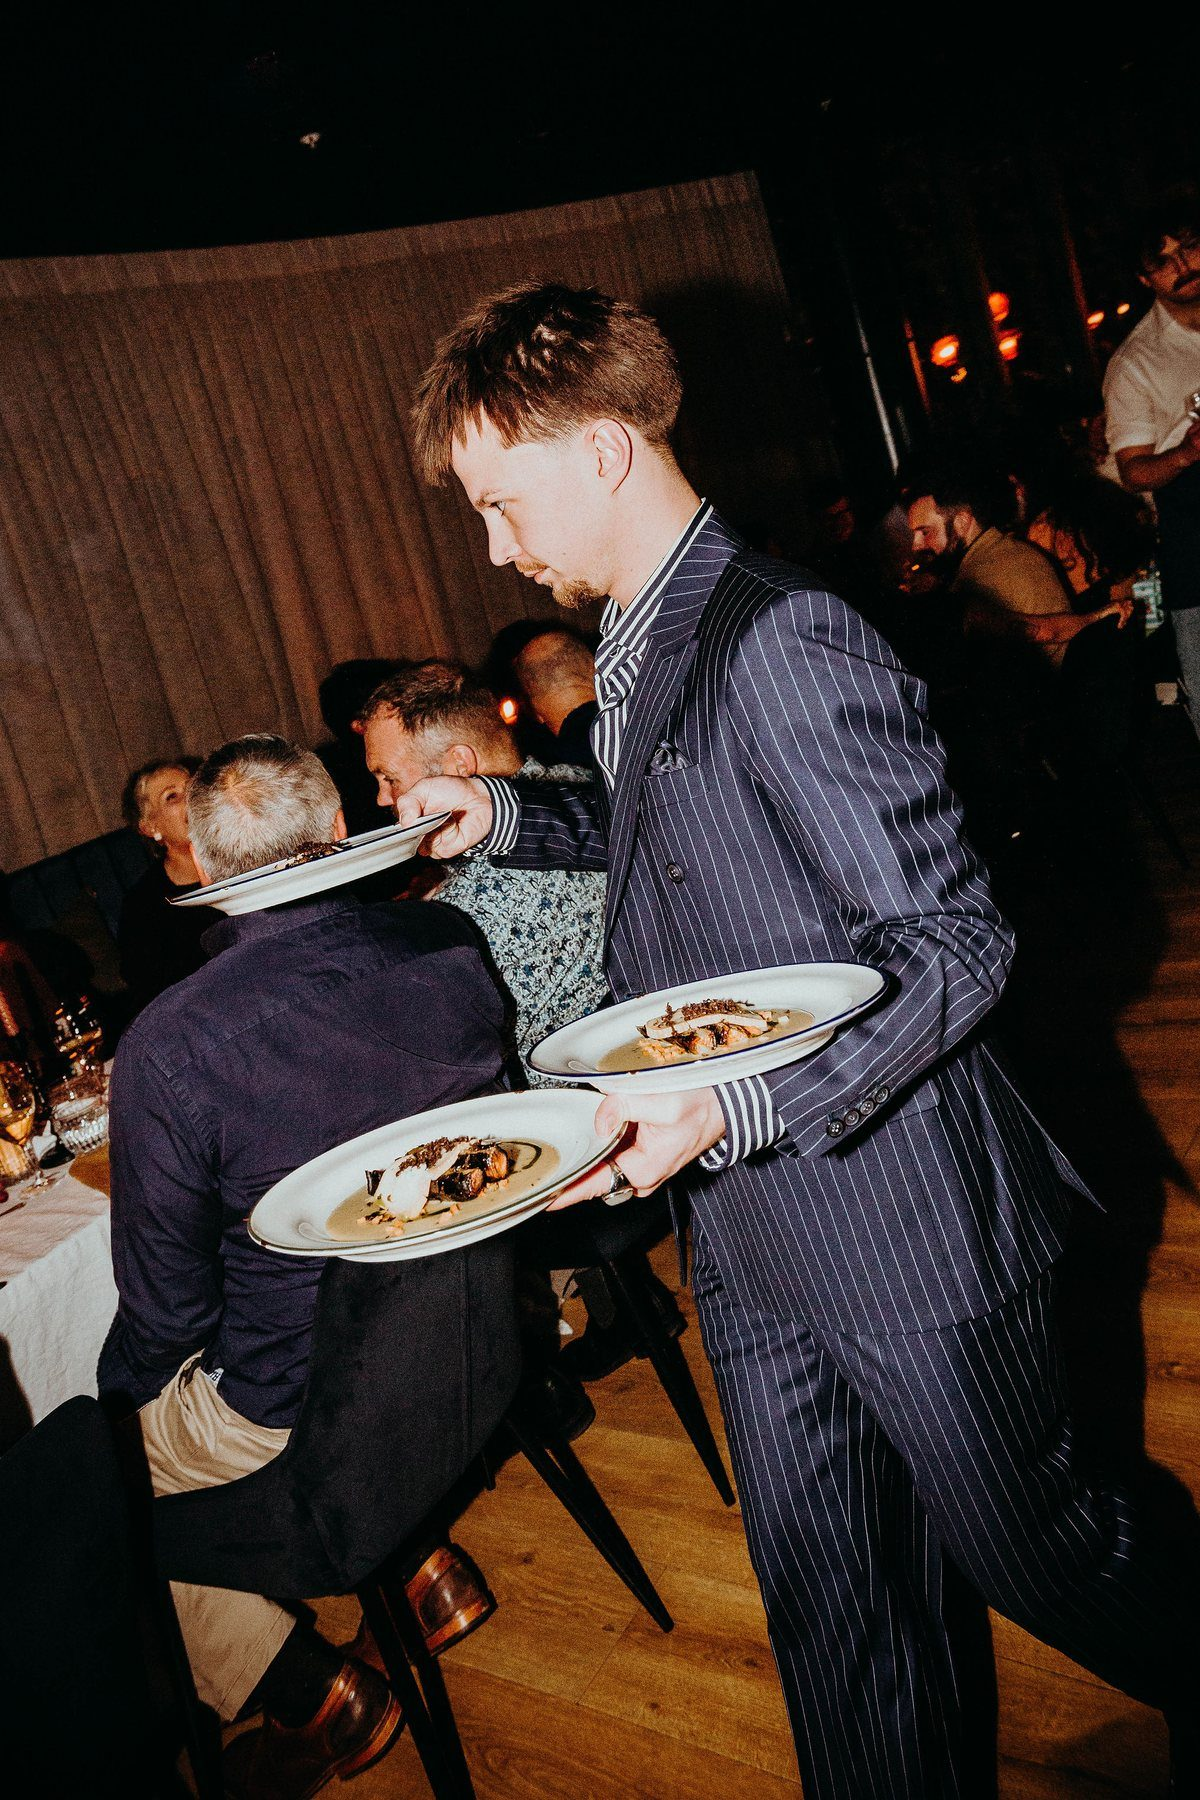
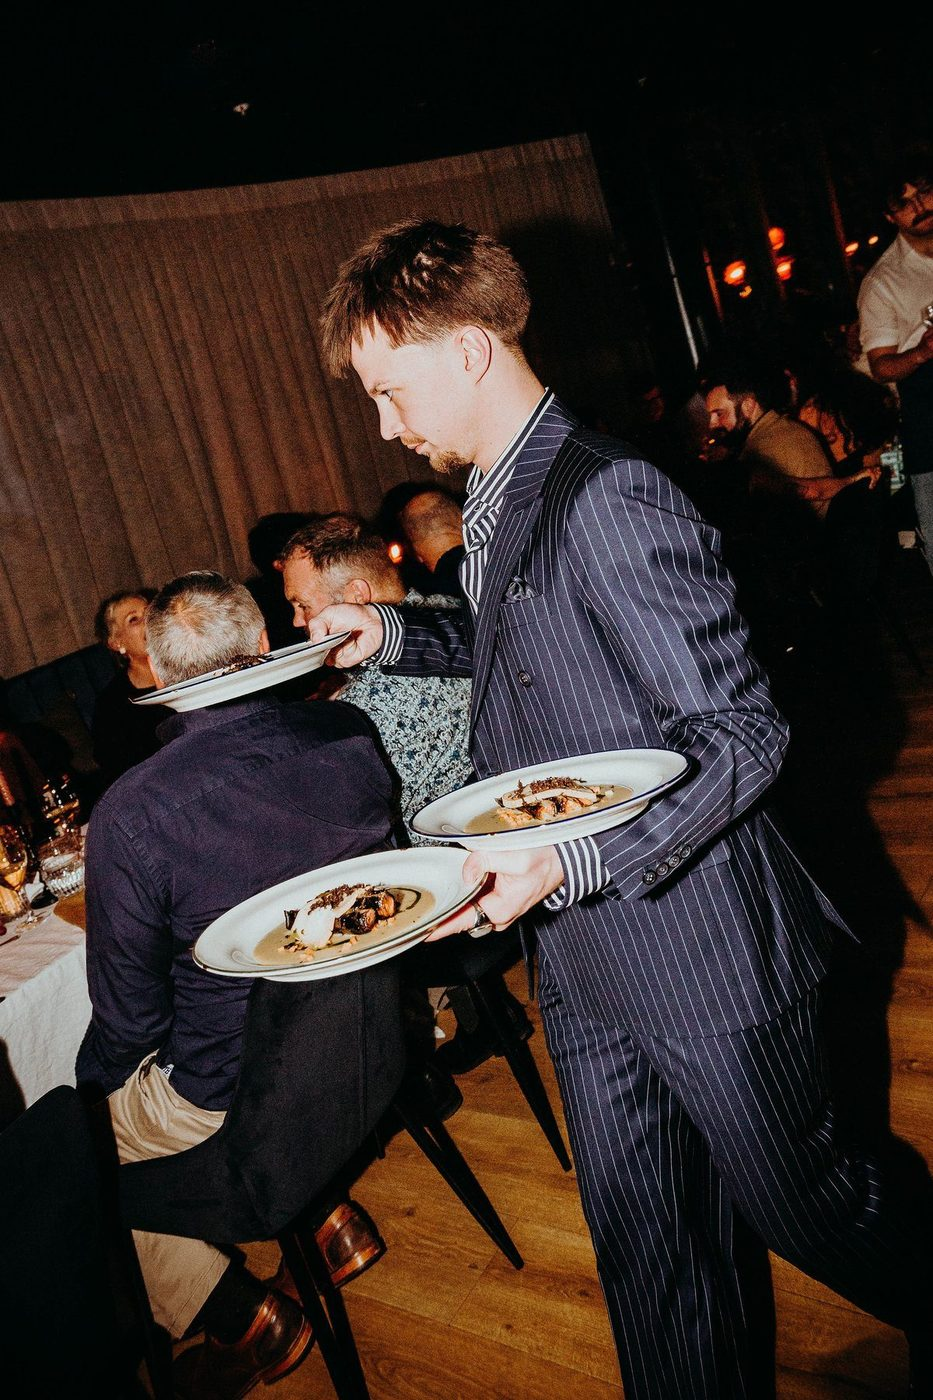
Home +30%: a photograph on every screen
- Dine & host: burrata and tomatoes from above beside the intro, so the
  first screen after the hero carries food, not only words
- Host at Franco: a waiter in pinstripe carrying plates, set across the
  edge of the wide room photograph like a magazine spread
- The event room photograph lifted so faces read
- Both new photographs are unused elsewhere (one photograph, one page)

Claude-Session: https://claude.ai/code/session_01WYDWCkcRoA8pyvYB3ZcUTa

Changed region(s): [[0.4041, 0.4914, 0.4973, 0.5836], [0.4973, 0.3379, 0.5284, 0.3993], [0.5906, 0.5529, 0.6217, 0.5836]]

diff --git a/index.html b/index.html
@@ -149,6 +149,8 @@
       <p class="a1">Vino, aperitivo and pasta fresca <em>(upstairs)</em> at 166 Cashel St. Pasta rolled in view, Negronis stirred to order. Date night, the birthday table, or a spritz before the stadium, a short walk&nbsp;away.</p>
       <div class="lines g-hero-ask"><a class="line" href="/bookings/"><span>Book a table</span><i class="lead" aria-hidden="true"></i><em class="v">4pm till late</em></a><a class="line" href="/functions/#enquire"><span>Plan an event</span><i class="lead" aria-hidden="true"></i><em class="v">up to 240</em></a></div>
     </div>
+    <div class="hm-intro-ph"><div class="ph" data-unmask><img src="/images/burrata-tomato-top.jpg" alt="Burrata and tomatoes, a fork going in, from above" width="1120" height="1400" loading="lazy" decoding="async"></div>
+    </div>
   </div>
 </section>
 
@@ -199,6 +201,7 @@
       <div class="lines"><a class="line hm-dup" href="/functions/#enquire"><span>Plan an event</span><i class="lead" aria-hidden="true"></i><em class="v">up to 240</em></a></div>
       <a class="hm-more" href="/private-dining/">Private dining &amp; birthdays</a>
     </div>
+    <div class="hm-ev-ph"><div class="ph" data-unmask><img src="/images/pack-2026/server-pinstripe-plates.jpg" alt="A waiter in a pinstripe suit carrying plates to a long table" width="933" height="1400" loading="lazy" decoding="async"></div></div>
   </div>
 </section>
 

diff --git a/static/franco.css b/static/franco.css
@@ -827,3 +827,16 @@ body:has(.pg-home .hm-hero) .bf-mast{display:none}
   .pg-home .hm-details{margin-top:28px}
 }
 @media (max-width:639.98px){.pg-home .hm-h1{font-size:min(48px,11.2vw)}}
+/* Home +30%: a photograph beside the intro, a second beside Host at Franco, the event room lifted */
+.pg-home .hm-lead{grid-column:2/8}
+.pg-home .hm-intro-ph{grid-column:9/13;margin-top:clamp(-40px,-3vw,0px)}
+.pg-home .hm-intro-ph .ph{aspect-ratio:4/5}
+.pg-home .hm-ev .hm-txt{grid-column:3/8}
+.pg-home .hm-ev-ph{grid-column:9/12;margin-top:clamp(-140px,-9vw,-60px);position:relative;z-index:2}
+.pg-home .hm-ev-ph .ph{aspect-ratio:3/4}
+.pg-home .hm-ev .hm-wide img{filter:brightness(1.18) contrast(1.02) saturate(.95) sepia(.06)}
+@media (max-width:899.98px){
+  .pg-home .hm-lead,.pg-home .hm-intro-ph,.pg-home .hm-ev .hm-txt,.pg-home .hm-ev-ph{grid-column:1/-1}
+  .pg-home .hm-intro-ph{margin-top:32px;width:78%;justify-self:end}
+  .pg-home .hm-ev-ph{margin-top:28px;width:62%;justify-self:end}
+}
